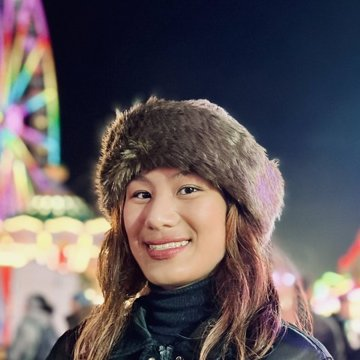
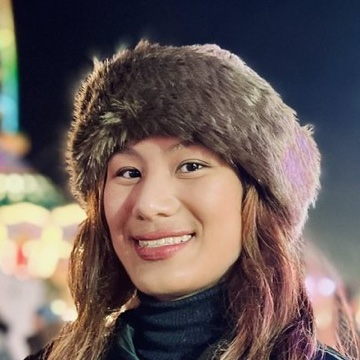
Light mode (system + toggle), bigger AgriEasy globe, closer Rhea crop, timeline 'now' line after 2026
Claude-Session: https://claude.ai/code/session_01CcUacAvR1T9UVrhhYp1mBP

diff --git a/assets/style.css b/assets/style.css
@@ -16,6 +16,9 @@
   --jade:#51BAC1;
   --deep:#1B7A80;
   --peach:#F6CDB4;
+  --accent:#51BAC1;     /* jade as text/marks: safe on this ground */
+  --plan:#F6CDB4;       /* planned / target states */
+  --on-accent:#061418;  /* text on jade fills */
   --sand:#F7F1E8;
   --disp:"Space Grotesk","Noto Sans SC",system-ui,sans-serif;
   --body:Manrope,"Noto Sans SC",system-ui,sans-serif;
@@ -28,7 +31,7 @@
 *{box-sizing:border-box}
 html{scroll-behavior:smooth;scrollbar-color:var(--rule-2) var(--ground);-webkit-text-size-adjust:100%}
 body{margin:0;background:var(--ground);color:var(--ink);font:400 17px/1.6 var(--body);-webkit-font-smoothing:antialiased;caret-color:var(--jade);accent-color:var(--jade)}
-::selection{background:var(--jade);color:var(--ground)}
+::selection{background:var(--jade);color:var(--on-accent)}
 ::-webkit-scrollbar{width:10px;height:10px}
 ::-webkit-scrollbar-track{background:var(--ground)}
 ::-webkit-scrollbar-thumb{background:var(--rule-2);border:2px solid var(--ground)}
@@ -43,7 +46,7 @@ p{margin:0}
 .num,.mono{font-family:var(--mono);font-variant-numeric:tabular-nums;font-feature-settings:"tnum"}
 
 .wrap{max-width:var(--max);margin:0 auto;padding:0 var(--gut)}
-.skip{position:absolute;left:-999px;top:8px;background:var(--jade);color:var(--ground);padding:8px 12px;z-index:50}
+.skip{position:absolute;left:-999px;top:8px;background:var(--jade);color:var(--on-accent);padding:8px 12px;z-index:50}
 .skip:focus{left:8px}
 
 /* ---------- top bar ---------- */
@@ -54,8 +57,8 @@ p{margin:0}
 .top nav a{font:500 14px var(--disp);color:var(--ink-2);text-decoration:none;letter-spacing:.01em;padding:6px 0;border-bottom:1px solid transparent}
 .top nav a:hover{color:var(--ink);border-bottom-color:var(--jade)}
 .top nav .lang{font-family:var(--body)}
-.top nav .cta-top{color:var(--ground);background:var(--jade);padding:8px 16px;border:0}
-.top nav .cta-top:hover{background:var(--ink);color:var(--ground)}
+.top nav .cta-top{color:var(--on-accent);background:var(--jade);padding:8px 16px;border:0}
+.top nav .cta-top:hover{background:var(--ink);color:var(--on-accent)}
 
 /* ---------- stage rail (altitude readout) ---------- */
 .rail{position:fixed;left:0;top:calc(var(--top) + 40px);bottom:40px;width:120px;z-index:15;display:none;pointer-events:none}
@@ -65,7 +68,7 @@ p{margin:0}
 .rail a{display:flex;align-items:center;gap:12px;font:500 12px var(--disp);letter-spacing:.07em;text-transform:uppercase;color:var(--ink-3);text-decoration:none;transition:color .3s}
 .rail a::before{content:"";width:7px;height:7px;border:1px solid var(--rule-2);background:var(--ground);flex:none;transition:background .3s,border-color .3s,transform .3s}
 .rail a:hover{color:var(--ink)}
-.rail a[aria-current="true"]{color:var(--jade)}
+.rail a[aria-current="true"]{color:var(--accent)}
 .rail a[aria-current="true"]::before{background:var(--jade);border-color:var(--jade);transform:scale(1.3)}
 @media (min-width:1280px){.rail{display:block}.main{padding-left:110px}}
 
@@ -107,7 +110,7 @@ p{margin:0}
 .hero h1{font-size:clamp(46px,8.2vw,104px);letter-spacing:-.04em;line-height:.95}
 .hero .lede{font-size:clamp(17px,1.5vw,20px);color:var(--ink);max-width:58ch;margin-top:22px;opacity:.9}
 .actions{display:flex;flex-wrap:wrap;gap:12px;margin-top:30px}
-.btn{display:inline-flex;align-items:center;gap:10px;font:500 15px var(--disp);text-decoration:none;padding:14px 22px;border:1px solid var(--jade);background:var(--jade);color:var(--ground);cursor:pointer;transition:background .2s,color .2s,border-color .2s}
+.btn{display:inline-flex;align-items:center;gap:10px;font:500 15px var(--disp);text-decoration:none;padding:14px 22px;border:1px solid var(--jade);background:var(--jade);color:var(--on-accent);cursor:pointer;transition:background .2s,color .2s,border-color .2s}
 .btn:hover{background:var(--ink);border-color:var(--ink)}
 .btn.ghost{background:transparent;color:var(--ink);border-color:rgba(242,245,244,.5)}
 .btn.ghost:hover{border-color:var(--ink);background:rgba(242,245,244,.08)}
@@ -118,7 +121,7 @@ p{margin:0}
 .collar div:first-child{border-left:0}
 .collar b{display:block;font:500 clamp(26px,2.6vw,38px)/1 var(--mono);letter-spacing:-.03em;color:var(--ink)}
 .collar span{display:block;font-size:13px;color:var(--ink-2);margin-top:8px;line-height:1.35}
-.collar .plan b{color:var(--peach)}
+.collar .plan b{color:var(--plan)}
 
 /* ---------- sections ---------- */
 .sec{padding:clamp(88px,11vw,160px) 0 0;scroll-margin-top:var(--top)}
@@ -134,8 +137,8 @@ p{margin:0}
 .spec th{font:500 12px var(--disp);letter-spacing:.07em;text-transform:uppercase;color:var(--ink-3);width:38%;padding-right:16px;padding-top:17px}
 .spec td{color:var(--ink)}
 .spec td .num{font-size:16px}
-.tag{display:inline-block;font:500 12px var(--disp);letter-spacing:.07em;text-transform:uppercase;padding:3px 7px;margin-left:8px;border:1px solid var(--jade);color:var(--jade);vertical-align:2px}
-.tag.plan{border-color:var(--peach);color:var(--peach)}
+.tag{display:inline-block;font:500 12px var(--disp);letter-spacing:.07em;text-transform:uppercase;padding:3px 7px;margin-left:8px;border:1px solid var(--accent);color:var(--accent);vertical-align:2px}
+.tag.plan{border-color:var(--plan);color:var(--plan)}
 
 /* orbit */
 .orbit .media{grid-column:1/8}
@@ -151,7 +154,7 @@ p{margin:0}
 .bands{display:grid;grid-template-columns:repeat(4,1fr);border-top:1px solid var(--rule);border-bottom:1px solid var(--rule);margin-top:clamp(28px,4vw,48px)}
 .bands div{padding:20px 22px 22px 0}
 .bands div+div{padding-left:22px;border-left:1px solid var(--rule)}
-.bands b{display:block;font:500 12px var(--disp);letter-spacing:.07em;text-transform:uppercase;color:var(--jade)}
+.bands b{display:block;font:500 12px var(--disp);letter-spacing:.07em;text-transform:uppercase;color:var(--accent)}
 .bands span{display:block;color:var(--ink-2);font-size:15px;margin-top:8px;line-height:1.5}
 .strip{display:grid;grid-template-columns:repeat(3,1fr);gap:24px;margin-top:24px}
 .strip .frame{aspect-ratio:4/3;overflow:hidden;border:1px solid var(--rule)}
@@ -173,7 +176,7 @@ p{margin:0}
 .index b{font:500 15px var(--disp);color:var(--ink)}
 .index span{color:var(--ink-2);font-size:15px}
 .channels{display:flex;flex-wrap:wrap;gap:8px 18px;margin-top:22px;font:500 12px var(--disp);letter-spacing:.07em;text-transform:uppercase;color:var(--ink-3)}
-.channels b{color:var(--jade);font-weight:500}
+.channels b{color:var(--accent);font-weight:500}
 
 /* proof */
 .cases{display:grid;grid-template-columns:repeat(3,1fr);column-gap:53px;border-top:1px solid var(--rule)}
@@ -181,7 +184,7 @@ p{margin:0}
 .case+.case::before{content:"";position:absolute;left:-27px;top:0;bottom:0;width:1px;background:var(--rule)}
 .case .frame{aspect-ratio:3/2;overflow:hidden;margin-bottom:22px;border:1px solid var(--rule)}
 .case p{color:var(--ink-2);font-size:15.5px;margin-top:10px}
-.case .use{font:500 12px var(--disp);letter-spacing:.07em;text-transform:uppercase;color:var(--jade);margin-top:14px;display:block}
+.case .use{font:500 12px var(--disp);letter-spacing:.07em;text-transform:uppercase;color:var(--accent);margin-top:14px;display:block}
 .contact-sheet{display:grid;grid-template-columns:repeat(4,1fr);gap:2px;background:var(--rule);border:1px solid var(--rule);margin-top:clamp(56px,7vw,96px)}
 .contact-sheet figure{margin:0;background:var(--ground);position:relative}
 .contact-sheet img{aspect-ratio:1;object-fit:cover;width:100%;filter:saturate(.9) contrast(1.03);transition:filter .4s}
@@ -193,11 +196,11 @@ p{margin:0}
 .ledger{list-style:none;margin:0;padding:0;border-bottom:1px solid var(--rule)}
 .ledger li{display:grid;grid-template-columns:120px minmax(0,1.1fr) minmax(0,1.4fr) 96px;gap:24px;align-items:baseline;padding:18px 0;border-top:1px solid var(--rule);transition:background .25s}
 .ledger li:hover{background:var(--ground-2)}
-.ledger .yr{font:500 18px var(--mono);color:var(--jade)}
+.ledger .yr{font:500 18px var(--mono);color:var(--accent)}
 .ledger b{font:500 18px/1.3 var(--disp);color:var(--ink)}
 .ledger span{color:var(--ink-2);font-size:15px}
 .ledger .st{justify-self:end;font:500 12px var(--disp);letter-spacing:.07em;text-transform:uppercase;color:var(--ink-3)}
-.ledger li.plan .yr,.ledger li.plan .st{color:var(--peach)}
+.ledger li.plan .yr,.ledger li.plan .st{color:var(--plan)}
 .ledger li.plan b{color:var(--ink)}
 .ledger li.now{border-top:1px solid var(--jade)}
 
@@ -207,7 +210,7 @@ p{margin:0}
 .person+.person::before{content:"";position:absolute;left:-25px;top:0;bottom:0;width:1px;background:var(--rule)}
 .person img{width:100%;aspect-ratio:1;object-fit:cover;filter:grayscale(1) contrast(1.05);transition:filter .5s;margin-bottom:20px;background:var(--ground-2)}
 .person:hover img{filter:none}
-.person .role{font:500 12px var(--disp);letter-spacing:.07em;text-transform:uppercase;color:var(--jade);margin:8px 0 12px}
+.person .role{font:500 12px var(--disp);letter-spacing:.07em;text-transform:uppercase;color:var(--accent);margin:8px 0 12px}
 .person p:last-child{color:var(--ink-2);font-size:15px}
 .crew{display:grid;grid-template-columns:repeat(3,1fr);gap:24px;margin-top:24px}
 .crew .frame{aspect-ratio:4/3;overflow:hidden;border:1px solid var(--rule)}
@@ -223,8 +226,8 @@ p{margin:0}
 .contact .left p{color:var(--ink-2);margin-top:20px;max-width:46ch}
 .mailrow{display:flex;flex-wrap:wrap;align-items:center;gap:0;margin-top:32px;border:1px solid var(--rule-2);width:max-content;max-width:100%}
 .mailrow code{font:500 15px var(--mono);padding:13px 16px;color:var(--ink)}
-.mailrow button{font:500 13px var(--disp);background:transparent;color:var(--jade);border:0;border-left:1px solid var(--rule-2);padding:13px 16px;cursor:pointer}
-.mailrow button:hover{background:var(--jade);color:var(--ground)}
+.mailrow button{font:500 13px var(--disp);background:transparent;color:var(--accent);border:0;border-left:1px solid var(--rule-2);padding:13px 16px;cursor:pointer}
+.mailrow button:hover{background:var(--jade);color:var(--on-accent)}
 .cform{grid-column:7/13;display:grid;gap:22px}
 .cform .row{display:grid;grid-template-columns:1fr 1fr;gap:22px}
 .cform label{display:grid;gap:8px;font:500 12px var(--disp);letter-spacing:.07em;text-transform:uppercase;color:var(--ink-3)}
@@ -235,7 +238,7 @@ p{margin:0}
 .cform button{justify-self:start}
 .cform button:disabled{opacity:.55;cursor:progress}
 .form-msg{font-size:15px;color:var(--ink-2);min-height:1.5em}
-.form-msg.err{color:var(--peach)}
+.form-msg.err{color:var(--plan)}
 .hp{position:absolute;left:-9999px}
 
 footer{border-top:1px solid var(--rule);padding:26px 0 34px;font-size:13.5px;color:var(--ink-3)}
@@ -337,3 +340,58 @@ footer a{color:var(--ink-2)}
   .sw.r{border:1.5px solid var(--ink);border-width:0 0 1.5px 0;background:linear-gradient(to top right,transparent 48%,var(--ink) 48% 56%,transparent 56%)}
   .sw.p{border-top:2px dashed var(--jade);height:0;margin-top:6px}
 }
+
+/* ---------- light mode ----------
+   Follows the visitor's system setting; the top-bar button overrides it
+   (stored per browser). Scenes (hero, calibration plate, photo captions,
+   overlay panels) stay dark in both modes: they are imagery. */
+:root[data-theme="light"]{
+  color-scheme:light;
+  --ground:#F4F7F6; --ground-2:#E8EFEE; --ground-3:#DCE6E4;
+  --ink:#0B1F24; --ink-2:#3A5559; --ink-3:#557073;
+  --rule:#D3DFDD; --rule-2:#B5C8C5;
+  --accent:#15656A; --plan:#9C4E26;
+}
+@media (prefers-color-scheme:light){
+  :root:not([data-theme="dark"]){
+    color-scheme:light;
+    --ground:#F4F7F6; --ground-2:#E8EFEE; --ground-3:#DCE6E4;
+    --ink:#0B1F24; --ink-2:#3A5559; --ink-3:#557073;
+    --rule:#D3DFDD; --rule-2:#B5C8C5;
+    --accent:#15656A; --plan:#9C4E26;
+  }
+}
+:root{color-scheme:dark}
+/* scenes keep the dark viewer palette */
+.hero .frame,.calib-plate,.bleed .over,.contact-sheet figcaption{
+  --ground:#061418; --ground-2:#0A1E23; --ink:#F2F5F4; --ink-2:#B9CBC9; --ink-3:#7F9A98;
+  --rule:#1E3A40; --rule-2:#2C5158; --accent:#51BAC1; --plan:#F6CDB4; color:var(--ink)}
+.hero .frame{background:var(--ground)}
+.calib-plate{background:#0A1E23}
+/* logo swap */
+.logo .on-light{display:none}
+:root[data-theme="light"] .logo .on-dark{display:none}
+:root[data-theme="light"] .logo .on-light{display:block}
+@media (prefers-color-scheme:light){
+  :root:not([data-theme="dark"]) .logo .on-dark{display:none}
+  :root:not([data-theme="dark"]) .logo .on-light{display:block}
+}
+/* theme button */
+.theme{display:inline-grid;place-items:center;width:34px;height:34px;background:transparent;border:1px solid var(--rule-2);color:var(--ink-2);cursor:pointer;padding:0}
+.theme:hover{color:var(--ink);border-color:var(--accent)}
+.theme svg{width:16px;height:16px}
+.theme .sun{display:none}
+:root[data-theme="light"] .theme .sun{display:block}
+:root[data-theme="light"] .theme .moon{display:none}
+@media (prefers-color-scheme:light){
+  :root:not([data-theme="dark"]) .theme .sun{display:block}
+  :root:not([data-theme="dark"]) .theme .moon{display:none}
+}
+:root[data-theme="light"] .person img,:root[data-theme="light"] .crew img{background:var(--ground-2)}
+
+/* AgriEasy globe fills its half */
+@media (min-width:1101px){.field .globe{grid-column:1/7;padding:clamp(10px,1.5vw,18px)}.field .side{grid-column:7/13;padding-left:clamp(0px,2vw,24px)}}
+.field .globe{padding:clamp(10px,1.5vw,18px)}
+/* timeline: the jade line marks "now", between the last done row and the first planned row */
+.ledger li.now{border-top:1px solid var(--rule)}
+.ledger li.now+li{border-top:2px solid var(--accent)}

diff --git a/index.html b/index.html
@@ -5,7 +5,9 @@
 <meta name="viewport" content="width=device-width,initial-scale=1">
 <title>Jade Aerospace | Satellites, ground stations and AI for Earth observation</title>
 <meta name="description" content="Jade Aerospace is a Hong Kong company building a full Earth observation chain: a 216-satellite constellation, licensed ground stations in Brazil, a calibration field and AI analysis.">
-<meta name="theme-color" content="#061418">
+<meta name="theme-color" content="#061418" media="(prefers-color-scheme: dark)">
+<meta name="theme-color" content="#F4F7F6" media="(prefers-color-scheme: light)">
+<script>try{var t=localStorage.getItem("theme");if(t==="light"||t==="dark")document.documentElement.dataset.theme=t}catch(e){}</script>
 <meta property="og:title" content="Jade Aerospace">
 <meta property="og:description" content="Satellites, ground stations and AI, from orbit to the field.">
 <meta property="og:image" content="https://jadeaerospace.com/assets/hero-fields.jpg">
@@ -24,9 +26,10 @@
 <!-- ============ TOP BAR ============ -->
 <header class="top">
   <div class="wrap">
-    <a class="logo" href="./"><img src="assets/logo-white.png" alt="Jade Aerospace"></a>
+    <a class="logo" href="./"><img class="on-dark" src="assets/logo-white.png" alt="Jade Aerospace"><img class="on-light" src="assets/logo-jade.png" alt="Jade Aerospace"></a>
     <nav>
       <a href="#orbit">Constellation</a><a href="#ground">Ground stations</a><a href="#field">AgriEasy</a><a href="#proof">Work</a><a href="#team">Team</a>
+      <button type="button" class="theme" data-theme-toggle aria-label="Switch light / dark" title="Switch light / dark"><svg class="moon" viewBox="0 0 16 16" aria-hidden="true"><path d="M13.5 10.2A6 6 0 0 1 5.8 2.5a6 6 0 1 0 7.7 7.7Z" fill="none" stroke="currentColor" stroke-width="1.3"/></svg><svg class="sun" viewBox="0 0 16 16" aria-hidden="true"><circle cx="8" cy="8" r="3" fill="none" stroke="currentColor" stroke-width="1.3"/><path d="M8 1v2M8 13v2M1 8h2M13 8h2M3 3l1.4 1.4M11.6 11.6 13 13M3 13l1.4-1.4M11.6 4.4 13 3" stroke="currentColor" stroke-width="1.3"/></svg></button>
       <a class="lang" href="zh/" hreflang="zh-Hans">中文</a>
       <a class="cta-top" href="#contact">Contact</a>
     </nav>

diff --git a/zh/index.html b/zh/index.html
@@ -5,7 +5,9 @@
 <meta name="viewport" content="width=device-width,initial-scale=1">
 <title>玉航天 Jade Aerospace | 卫星星座、地面站与 AI 遥感分析</title>
 <meta name="description" content="玉航天是一家香港公司，建设完整的对地观测链条：216 颗卫星星座、巴西已获许可的地面站、定标场，以及 AI 遥感分析。">
-<meta name="theme-color" content="#061418">
+<meta name="theme-color" content="#061418" media="(prefers-color-scheme: dark)">
+<meta name="theme-color" content="#F4F7F6" media="(prefers-color-scheme: light)">
+<script>try{var t=localStorage.getItem("theme");if(t==="light"||t==="dark")document.documentElement.dataset.theme=t}catch(e){}</script>
 <meta property="og:title" content="Jade Aerospace">
 <meta property="og:description" content="卫星、地面站与 AI：从轨道到田间。">
 <meta property="og:image" content="https://jadeaerospace.com/assets/hero-fields.jpg">
@@ -24,9 +26,10 @@
 <!-- ============ TOP BAR ============ -->
 <header class="top">
   <div class="wrap">
-    <a class="logo" href="./"><img src="../assets/logo-white.png" alt="Jade Aerospace"></a>
+    <a class="logo" href="./"><img class="on-dark" src="../assets/logo-white.png" alt="Jade Aerospace"><img class="on-light" src="../assets/logo-jade.png" alt="Jade Aerospace"></a>
     <nav>
       <a href="#orbit">卫星星座</a><a href="#ground">地面站</a><a href="#field">农易</a><a href="#proof">项目</a><a href="#team">团队</a>
+      <button type="button" class="theme" data-theme-toggle aria-label="切换浅色 / 深色" title="切换浅色 / 深色"><svg class="moon" viewBox="0 0 16 16" aria-hidden="true"><path d="M13.5 10.2A6 6 0 0 1 5.8 2.5a6 6 0 1 0 7.7 7.7Z" fill="none" stroke="currentColor" stroke-width="1.3"/></svg><svg class="sun" viewBox="0 0 16 16" aria-hidden="true"><circle cx="8" cy="8" r="3" fill="none" stroke="currentColor" stroke-width="1.3"/><path d="M8 1v2M8 13v2M1 8h2M13 8h2M3 3l1.4 1.4M11.6 11.6 13 13M3 13l1.4-1.4M11.6 4.4 13 3" stroke="currentColor" stroke-width="1.3"/></svg></button>
       <a class="lang" href="../" hreflang="en">EN</a>
       <a class="cta-top" href="#contact">联系我们</a>
     </nav>

diff --git a/assets/site.js b/assets/site.js
@@ -31,3 +31,16 @@
     if (el) spy.observe(el);
   });
 })();
+
+// Light / dark toggle: flips the effective theme and remembers it in this browser.
+(function () {
+  var btn = document.querySelector('[data-theme-toggle]');
+  if (!btn) return;
+  btn.addEventListener('click', function () {
+    var root = document.documentElement;
+    var now = root.dataset.theme || (window.matchMedia('(prefers-color-scheme: light)').matches ? 'light' : 'dark');
+    var next = now === 'light' ? 'dark' : 'light';
+    root.dataset.theme = next;
+    try { localStorage.setItem('theme', next); } catch (e) {}
+  });
+})();

diff --git a/tools/build_pages.py b/tools/build_pages.py
@@ -11,7 +11,7 @@ T = {
   title='Jade Aerospace | Satellites, ground stations and AI for Earth observation',
   desc='Jade Aerospace is a Hong Kong company building a full Earth observation chain: a 216-satellite constellation, licensed ground stations in Brazil, a calibration field and AI analysis.',
   ogdesc='Satellites, ground stations and AI, from orbit to the field.',
-  skip='Skip to content',
+  skip='Skip to content', themeLabel='Switch light / dark',
   nav=[('orbit','Constellation'),('ground','Ground stations'),('field','AgriEasy'),('proof','Work'),('team','Team')],
   contact='Contact',
   rail=[('orbit','Orbit'),('ground','Ground'),('calibration','Calibration'),('field','Field'),('proof','Proof'),('timeline','Timeline'),('team','Team'),('contact','Contact')],
@@ -92,7 +92,7 @@ T = {
   title='玉航天 Jade Aerospace | 卫星星座、地面站与 AI 遥感分析',
   desc='玉航天是一家香港公司，建设完整的对地观测链条：216 颗卫星星座、巴西已获许可的地面站、定标场，以及 AI 遥感分析。',
   ogdesc='卫星、地面站与 AI：从轨道到田间。',
-  skip='跳到正文',
+  skip='跳到正文', themeLabel='切换浅色 / 深色',
   nav=[('orbit','卫星星座'),('ground','地面站'),('field','农易'),('proof','项目'),('team','团队')],
   contact='联系我们',
   rail=[('orbit','轨道'),('ground','地面站'),('calibration','定标场'),('field','田间'),('proof','项目'),('timeline','历程'),('team','团队'),('contact','联系')],
@@ -216,7 +216,9 @@ def page(L):
 <meta name="viewport" content="width=device-width,initial-scale=1">
 <title>{d['title']}</title>
 <meta name="description" content="{d['desc']}">
-<meta name="theme-color" content="#061418">
+<meta name="theme-color" content="#061418" media="(prefers-color-scheme: dark)">
+<meta name="theme-color" content="#F4F7F6" media="(prefers-color-scheme: light)">
+<script>try{{var t=localStorage.getItem("theme");if(t==="light"||t==="dark")document.documentElement.dataset.theme=t}}catch(e){{}}</script>
 <meta property="og:title" content="Jade Aerospace">
 <meta property="og:description" content="{d['ogdesc']}">
 <meta property="og:image" content="https://jadeaerospace.com/assets/hero-fields.jpg">
@@ -235,9 +237,10 @@ def page(L):
 <!-- ============ TOP BAR ============ -->
 <header class="top">
   <div class="wrap">
-    <a class="logo" href="./"><img src="{A}logo-white.png" alt="Jade Aerospace"></a>
+    <a class="logo" href="./"><img class="on-dark" src="{A}logo-white.png" alt="Jade Aerospace"><img class="on-light" src="{A}logo-jade.png" alt="Jade Aerospace"></a>
     <nav>
       {nav}
+      <button type="button" class="theme" data-theme-toggle aria-label="{d['themeLabel']}" title="{d['themeLabel']}"><svg class="moon" viewBox="0 0 16 16" aria-hidden="true"><path d="M13.5 10.2A6 6 0 0 1 5.8 2.5a6 6 0 1 0 7.7 7.7Z" fill="none" stroke="currentColor" stroke-width="1.3"/></svg><svg class="sun" viewBox="0 0 16 16" aria-hidden="true"><circle cx="8" cy="8" r="3" fill="none" stroke="currentColor" stroke-width="1.3"/><path d="M8 1v2M8 13v2M1 8h2M13 8h2M3 3l1.4 1.4M11.6 11.6 13 13M3 13l1.4-1.4M11.6 4.4 13 3" stroke="currentColor" stroke-width="1.3"/></svg></button>
       <a class="lang" href="{d['other']}" hreflang="{d['otherhreflang']}">{d['otherlabel']}</a>
       <a class="cta-top" href="#contact">{d['contact']}</a>
     </nav>
